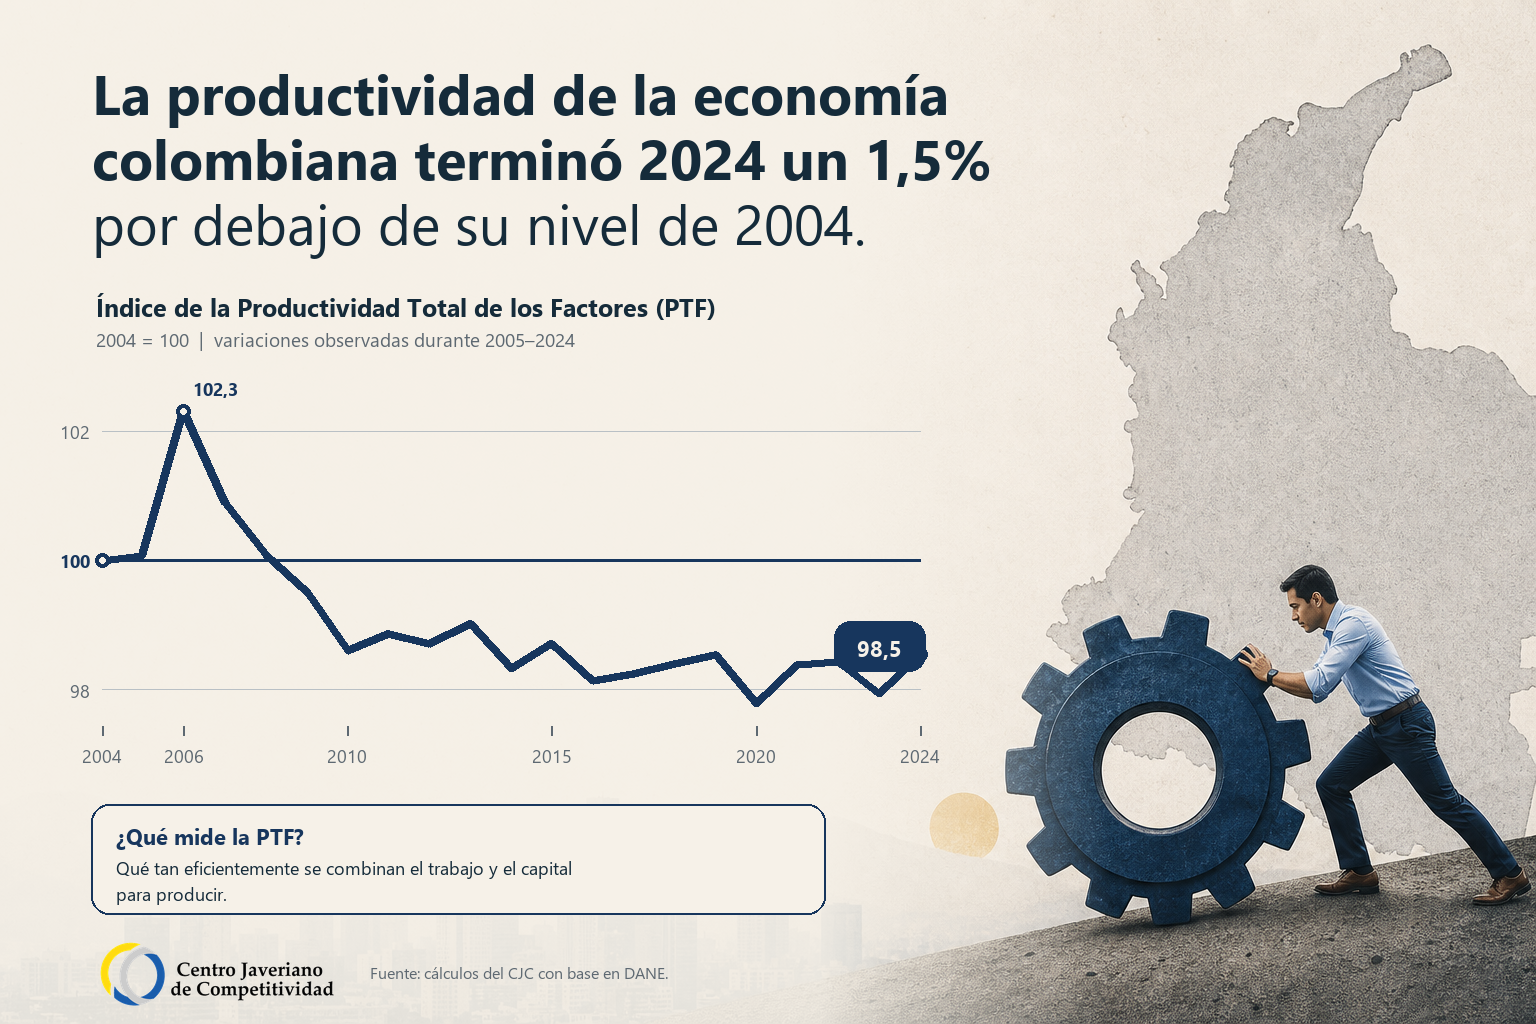
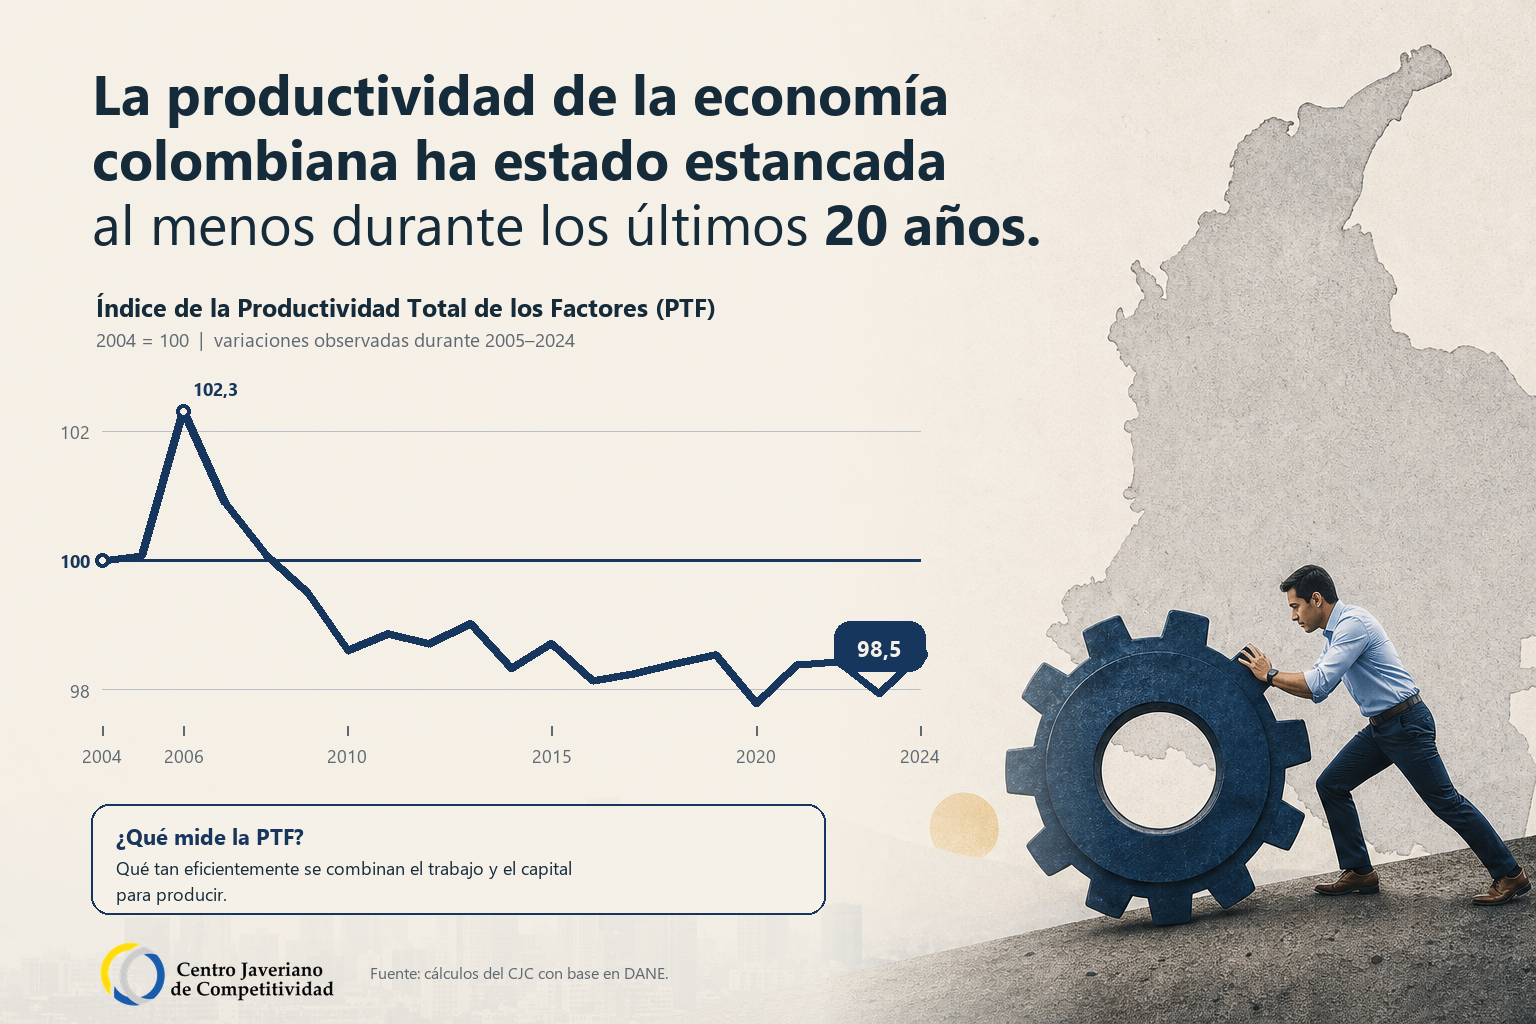
Restore original headline in PTF social graphic

Changed region(s): [[0.0625, 0.125, 0.6875, 0.25]]

diff --git a/scripts/build_social_ptf.py b/scripts/build_social_ptf.py
@@ -119,14 +119,21 @@ def build() -> Path:
     )
     draw.text(
         (92, 119),
-        "colombiana terminó 2024 un 1,5%",
+        "colombiana ha estado estancada",
         font=font(56, bold=True),
         fill=TEXT,
     )
+    title_tail = "al menos durante los últimos "
     draw.text(
         (92, 184),
-        "por debajo de su nivel de 2004.",
+        title_tail,
         font=font(56),
+        fill=TEXT,
+    )
+    draw.text(
+        (92 + draw.textlength(title_tail, font=font(56)), 184),
+        "20 años.",
+        font=font(56, bold=True),
         fill=TEXT,
     )
 
